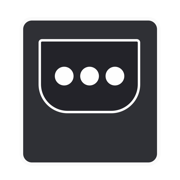
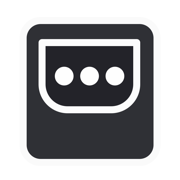
Update light-mode branding and composer image previews

Changed region(s): [[0.1111, 0.1111, 0.8889, 0.9167], [0.2222, 0.2222, 0.7778, 0.6389]]

diff --git a/web/src/pages/DmConversationPage.tsx b/web/src/pages/DmConversationPage.tsx
@@ -36,7 +36,7 @@ import {
   REALTIME_MESSAGE_WILL_APPEND_EVENT,
   replaceMessageInPages,
 } from '../realtime/state'
-import { buildSelectedFileKey, extractImageFilesFromClipboardData, mergeSelectedFiles } from './dmComposerFiles'
+import { buildSelectedFileKey, extractImageFilesFromClipboardData, isImageFile, mergeSelectedFiles } from './dmComposerFiles'
 import styles from './DmConversationPage.module.css'
 
 const MESSAGE_PAGE_SIZE = 20
@@ -62,6 +62,12 @@ interface ActionMenuState {
   messageId: string
   x: number
   y: number
+}
+
+interface SelectedImagePreview {
+  file: File
+  key: string
+  url: string
 }
 
 interface ReactionGroup {
@@ -220,9 +226,12 @@ export function DmConversationPage() {
   const fileInputRef = useRef<HTMLInputElement | null>(null)
   const actionMenuRef = useRef<HTMLDivElement | null>(null)
   const composerInputRef = useRef<HTMLTextAreaElement | null>(null)
+  const pendingLocalMessageStickRef = useRef<boolean | null>(null)
+  const selectedImagePreviewUrlsRef = useRef<string[]>([])
 
   const [composerText, setComposerText] = useState('')
   const [selectedFiles, setSelectedFiles] = useState<File[]>([])
+  const [selectedImagePreviews, setSelectedImagePreviews] = useState<SelectedImagePreview[]>([])
   const [composerError, setComposerError] = useState<string | null>(null)
   const [editingTarget, setEditingTarget] = useState<EditTarget | null>(null)
   const [actionMenu, setActionMenu] = useState<ActionMenuState | null>(null)
@@ -286,7 +295,53 @@ export function DmConversationPage() {
     return null
   }, [messagesAscending])
 
+  const selectedNonImageFiles = useMemo(() => selectedFiles.filter((file) => !isImageFile(file)), [selectedFiles])
+
   const hasOlderMessages = Boolean(messagePagesQuery.hasNextPage)
+
+  useEffect(() => {
+    setSelectedImagePreviews((current) => {
+      const currentByKey = new Map(current.map((preview) => [preview.key, preview]))
+      const next = selectedFiles.filter(isImageFile).map((file) => {
+        const key = buildSelectedFileKey(file)
+        const existing = currentByKey.get(key)
+        if (existing) {
+          return existing
+        }
+
+        return {
+          file,
+          key,
+          url: URL.createObjectURL(file),
+        }
+      })
+
+      const nextKeys = new Set(next.map((preview) => preview.key))
+      for (const preview of current) {
+        if (!nextKeys.has(preview.key)) {
+          URL.revokeObjectURL(preview.url)
+        }
+      }
+
+      const didChange =
+        current.length !== next.length ||
+        current.some((preview, index) => preview.key !== next[index]?.key || preview.url !== next[index]?.url)
+
+      return didChange ? next : current
+    })
+  }, [selectedFiles])
+
+  useEffect(() => {
+    selectedImagePreviewUrlsRef.current = selectedImagePreviews.map((preview) => preview.url)
+  }, [selectedImagePreviews])
+
+  useEffect(() => {
+    return () => {
+      for (const previewUrl of selectedImagePreviewUrlsRef.current) {
+        URL.revokeObjectURL(previewUrl)
+      }
+    }
+  }, [])
 
   const handleMessageCreated = useCallback(
     async (createdMessage: Message, options?: { resetComposer?: boolean }) => {
@@ -294,7 +349,9 @@ export function DmConversationPage() {
         return
       }
 
-      const shouldStickToBottom = shouldStickToBottomOnMessageAppend(timelineRef.current)
+      const shouldStickToBottom =
+        pendingLocalMessageStickRef.current ?? shouldStickToBottomOnMessageAppend(timelineRef.current)
+      pendingLocalMessageStickRef.current = null
 
       setComposerError(null)
       if (options?.resetComposer ?? false) {
@@ -343,10 +400,14 @@ export function DmConversationPage() {
         content: trimmedContent,
       })
     },
+    onMutate: () => {
+      pendingLocalMessageStickRef.current = shouldStickToBottomOnMessageAppend(timelineRef.current)
+    },
     onSuccess: async (createdMessage) => {
       await handleMessageCreated(createdMessage, { resetComposer: true })
     },
     onError: (error: unknown) => {
+      pendingLocalMessageStickRef.current = null
       setComposerError(resolveErrorMessage(error, 'Failed to send the message.'))
     },
   })
@@ -361,8 +422,14 @@ export function DmConversationPage() {
         content: value.trim(),
       })
     },
+    onMutate: () => {
+      pendingLocalMessageStickRef.current = shouldStickToBottomOnMessageAppend(timelineRef.current)
+    },
     onSuccess: async (createdMessage) => {
       await handleMessageCreated(createdMessage)
+    },
+    onError: () => {
+      pendingLocalMessageStickRef.current = null
     },
   })
 
@@ -1041,9 +1108,36 @@ export function DmConversationPage() {
               </div>
             ) : null}
 
-            {selectedFiles.length > 0 ? (
+            {selectedImagePreviews.length > 0 ? (
+              <div className={styles.attachmentPreviewGrid}>
+                {selectedImagePreviews.map((preview) => (
+                  <div className={styles.attachmentPreviewCard} key={preview.key}>
+                    <div className={styles.attachmentPreviewFrame}>
+                      <img
+                        alt={preview.file.name || 'Selected image preview'}
+                        className={styles.attachmentPreviewImage}
+                        src={preview.url}
+                      />
+                    </div>
+                    <div className={styles.attachmentPreviewMeta}>
+                      <span className={styles.attachmentPreviewName}>{preview.file.name}</span>
+                      <button
+                        className={styles.attachmentPreviewRemove}
+                        disabled={disableComposerActions}
+                        onClick={() => clearSelectedAttachment(preview.key)}
+                        type="button"
+                      >
+                        Remove
+                      </button>
+                    </div>
+                  </div>
+                ))}
+              </div>
+            ) : null}
+
+            {selectedNonImageFiles.length > 0 ? (
               <div className={styles.attachmentChipList}>
-                {selectedFiles.map((selectedFile) => (
+                {selectedNonImageFiles.map((selectedFile) => (
                   <div className={styles.attachmentChip} key={buildSelectedFileKey(selectedFile)}>
                     <span className={styles.attachmentName}>{selectedFile.name}</span>
                     <button

diff --git a/web/src/pages/DmConversationPage.module.css b/web/src/pages/DmConversationPage.module.css
@@ -70,6 +70,7 @@
 }
 
 .editingCancelButton:hover:not(:disabled),
+.attachmentPreviewRemove:hover:not(:disabled),
 .attachmentRemove:hover:not(:disabled),
 .contextMenuAction:hover:not(:disabled),
 .fileAttachmentLink:hover,
@@ -81,6 +82,7 @@
 .attachButton:focus-visible,
 .submitButton:focus-visible,
 .editingCancelButton:focus-visible,
+.attachmentPreviewRemove:focus-visible,
 .contextMenuAction:focus-visible,
 .unreadBanner:focus-visible {
   outline: 2px solid var(--ring);
@@ -414,7 +416,7 @@
 .unreadBanner {
   position: absolute;
   left: 50%;
-  transform: translateX(-50%);
+  transform: translate(-50%, 0);
   bottom: calc(100% + 0.75rem);
   z-index: 8;
   min-height: 40px;
@@ -431,17 +433,20 @@
   text-transform: uppercase;
   cursor: pointer;
   white-space: nowrap;
+  display: inline-flex;
+  align-items: center;
+  justify-content: center;
   animation: unreadSlideUp 0.2s ease-out;
 }
 
 @keyframes unreadSlideUp {
   from {
     opacity: 0;
-    transform: translateX(-50%) translateY(8px);
+    transform: translate(-50%, 8px);
   }
   to {
     opacity: 1;
-    transform: translateX(-50%) translateY(0);
+    transform: translate(-50%, 0);
   }
 }
 
@@ -577,6 +582,54 @@
   gap: 0.45rem;
 }
 
+.attachmentPreviewGrid {
+  display: grid;
+  grid-template-columns: repeat(auto-fill, minmax(8.5rem, 1fr));
+  gap: 0.7rem;
+}
+
+.attachmentPreviewCard {
+  display: grid;
+  overflow: hidden;
+  border: 1px solid var(--border-strong);
+  background: var(--surface-elevated);
+}
+
+.attachmentPreviewFrame {
+  aspect-ratio: 1;
+  background:
+    linear-gradient(135deg, color-mix(in srgb, var(--surface-emphasis) 84%, transparent), transparent),
+    var(--surface-emphasis);
+}
+
+.attachmentPreviewImage {
+  display: block;
+  width: 100%;
+  height: 100%;
+  object-fit: cover;
+}
+
+.attachmentPreviewMeta {
+  display: flex;
+  align-items: center;
+  justify-content: space-between;
+  gap: 0.5rem;
+  padding: 0.45rem 0.5rem;
+  border-top: 1px solid var(--border);
+}
+
+.attachmentPreviewName {
+  min-width: 0;
+  overflow: hidden;
+  color: var(--text-secondary);
+  font-family: var(--font-display);
+  font-size: 0.72rem;
+  letter-spacing: 0.05em;
+  text-overflow: ellipsis;
+  text-transform: uppercase;
+  white-space: nowrap;
+}
+
 .attachmentChip {
   display: inline-flex;
   align-items: center;
@@ -611,6 +664,20 @@
   letter-spacing: 0.08em;
   text-transform: uppercase;
   cursor: pointer;
+}
+
+.attachmentPreviewRemove {
+  min-height: 30px;
+  padding: 0.2rem 0.45rem;
+  border: 1px solid var(--border-strong);
+  background: transparent;
+  color: var(--text-primary);
+  font-family: var(--font-display);
+  font-size: 0.68rem;
+  letter-spacing: 0.08em;
+  text-transform: uppercase;
+  cursor: pointer;
+  flex: none;
 }
 
 .submitButton {

diff --git a/web/src/pages/dmComposerFiles.test.ts b/web/src/pages/dmComposerFiles.test.ts
@@ -1,5 +1,5 @@
 import { describe, expect, it } from 'vitest'
-import { buildSelectedFileKey, extractImageFilesFromClipboardData, mergeSelectedFiles } from './dmComposerFiles'
+import { buildSelectedFileKey, extractImageFilesFromClipboardData, isImageFile, mergeSelectedFiles } from './dmComposerFiles'
 
 function createFile(name: string, size = 100, lastModified = 1): File {
   return new File([new Uint8Array(size)], name, { lastModified, type: 'image/png' })
@@ -18,6 +18,11 @@ function createClipboardItem(file: File): DataTransferItem {
 describe('dm composer file helpers', () => {
   it('builds a stable file key from file metadata', () => {
     expect(buildSelectedFileKey(createFile('diagram.png', 42, 99))).toBe('diagram.png-42-99')
+  })
+
+  it('detects image files for preview rendering', () => {
+    expect(isImageFile(createFile('preview.png'))).toBe(true)
+    expect(isImageFile(new File(['plain'], 'note.txt', { type: 'text/plain' }))).toBe(false)
   })
 
   it('extracts pasted image files from clipboard items', () => {

diff --git a/web/src/components/BrandLogo.tsx b/web/src/components/BrandLogo.tsx
@@ -1,4 +1,5 @@
 import styles from './BrandLogo.module.css'
+import { useTheme } from '../theme'
 
 interface BrandLogoProps {
   className?: string
@@ -7,14 +8,17 @@ interface BrandLogoProps {
 }
 
 export function BrandLogo({ className, size = 'md', withText = true }: BrandLogoProps) {
+  const { colorMode } = useTheme()
   const classes = [styles.logo, styles[`size${size.toUpperCase()}`]]
   if (className) {
     classes.push(className)
   }
 
+  const markSrc = colorMode === 'light' ? '/agent-message-logo-light.svg' : '/agent-message-logo.svg'
+
   return (
     <span className={classes.join(' ')}>
-      <img aria-hidden="true" alt="" className={styles.mark} src="/agent-message-logo.svg" />
+      <img aria-hidden="true" alt="" className={styles.mark} src={markSrc} />
       {withText ? <span className={styles.wordmark}>Agent Message</span> : null}
     </span>
   )

diff --git a/web/src/pages/dmComposerFiles.ts b/web/src/pages/dmComposerFiles.ts
@@ -2,6 +2,10 @@ export function buildSelectedFileKey(file: File): string {
   return `${file.name}-${file.size}-${file.lastModified}`
 }
 
+export function isImageFile(file: File): boolean {
+  return file.type.startsWith('image/')
+}
+
 export function extractImageFilesFromClipboardData(clipboardData: DataTransfer | null | undefined): File[] {
   if (!clipboardData) {
     return []
@@ -16,7 +20,7 @@ export function extractImageFilesFromClipboardData(clipboardData: DataTransfer |
     return itemFiles
   }
 
-  return Array.from(clipboardData.files ?? []).filter((file) => file.type.startsWith('image/'))
+  return Array.from(clipboardData.files ?? []).filter(isImageFile)
 }
 
 export function mergeSelectedFiles(existing: File[], incoming: File[]): File[] {
